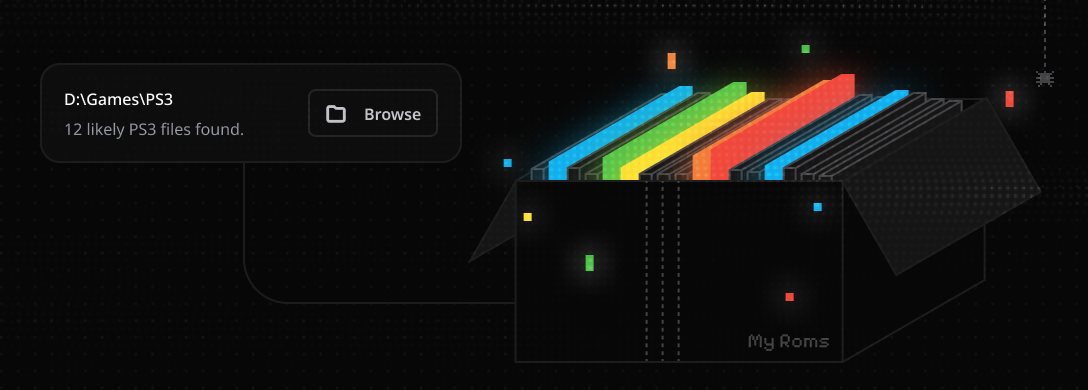
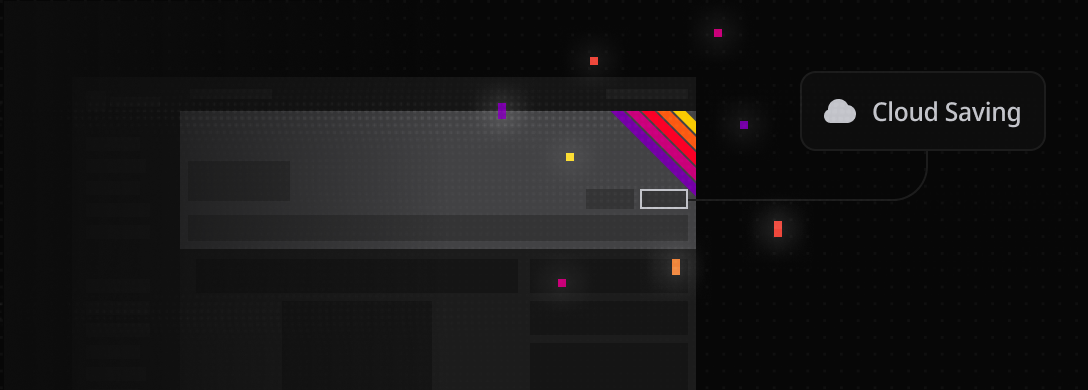
feat: update classics rainbow colors and consolidate into shared scss var
Move the classics conic gradient into a single $classics-rainbow var in globals and reference it everywhere instead of redefining it per file. Update the palette across the badge borders, hero stripes and category filter icon.

diff --git a/src/renderer/src/pages/game-details/hero.scss b/src/renderer/src/pages/game-details/hero.scss
@@ -190,31 +190,31 @@ $hero-height: 350px;
     pointer-events: none;
 
     &--orange {
-      color: #f0843b;
+      color: #fc5812;
       right: -116px;
       top: -69px;
     }
 
     &--red {
-      color: #ee473b;
+      color: #f8c802;
       right: -127.23px;
       top: -83.84px;
     }
 
     &--yellow {
-      color: #fcdc33;
+      color: #fb0026;
       right: -101.23px;
       top: -57.84px;
     }
 
     &--green {
-      color: #4cbd47;
+      color: #c80078;
       right: -88.23px;
       top: -44.84px;
     }
 
     &--blue {
-      color: #13aceb;
+      color: #7300a4;
       right: -75.23px;
       top: -31.84px;
     }
@@ -233,7 +233,7 @@ $hero-height: 350px;
       width: 500px;
       box-shadow:
         inset 0 -1px 1px 0 rgba(255, 255, 255, 0.25),
-        0 4px 16px 0 rgba(19, 172, 235, 0.24);
+        0 4px 16px 0 rgba(115, 0, 164, 0.24);
     }
 
     &--shadow {

diff --git a/src/renderer/src/pages/library/library-game-card-large.scss b/src/renderer/src/pages/library/library-game-card-large.scss
@@ -1,15 +1,5 @@
 @use "../../scss/globals.scss";
 
-$classics-rainbow: conic-gradient(
-  from 0deg,
-  #fcdc33 5deg,
-  #4cbd47 70deg,
-  #13aceb 145deg,
-  #ee473b 220deg,
-  #ef833a 290deg,
-  #fcdc33 365deg
-);
-
 .library-game-card-large {
   width: 100%;
   height: 300px;
@@ -245,7 +235,7 @@ $classics-rainbow: conic-gradient(
     border-radius: 6px;
     background:
       linear-gradient(#1c1c1c, #1c1c1c) padding-box,
-      $classics-rainbow border-box;
+      globals.$classics-rainbow border-box;
     padding: 0 8px;
     height: 28px;
     box-sizing: border-box;
@@ -269,7 +259,7 @@ $classics-rainbow: conic-gradient(
     border-radius: 6px;
     background:
       linear-gradient(#1c1c1c, #1c1c1c) padding-box,
-      $classics-rainbow border-box;
+      globals.$classics-rainbow border-box;
     width: 28px;
     height: 28px;
     box-sizing: border-box;

diff --git a/src/renderer/src/pages/library/library-game-card.scss b/src/renderer/src/pages/library/library-game-card.scss
@@ -1,15 +1,5 @@
 @use "../../scss/globals.scss";
 
-$classics-rainbow: conic-gradient(
-  from 0deg,
-  #fcdc33 5deg,
-  #4cbd47 70deg,
-  #13aceb 145deg,
-  #ee473b 220deg,
-  #ef833a 290deg,
-  #fcdc33 365deg
-);
-
 .library-game-card {
   &__wrapper {
     cursor: pointer;
@@ -137,7 +127,7 @@ $classics-rainbow: conic-gradient(
     border-radius: 6px;
     background:
       linear-gradient(#1c1c1c, #1c1c1c) padding-box,
-      $classics-rainbow border-box;
+      globals.$classics-rainbow border-box;
     padding: 0 8px;
     height: 24px;
     box-sizing: border-box;
@@ -161,7 +151,7 @@ $classics-rainbow: conic-gradient(
     border-radius: 6px;
     background:
       linear-gradient(#1c1c1c, #1c1c1c) padding-box,
-      $classics-rainbow border-box;
+      globals.$classics-rainbow border-box;
     width: 24px;
     height: 24px;
     box-sizing: border-box;

diff --git a/src/renderer/src/pages/library/category-filter.tsx b/src/renderer/src/pages/library/category-filter.tsx
@@ -33,11 +33,11 @@ export function ClassicsIcon({
           y2="22"
           gradientUnits="userSpaceOnUse"
         >
-          <stop offset="0%" stopColor="#ee473b" />
-          <stop offset="25%" stopColor="#ef833a" />
-          <stop offset="50%" stopColor="#fcdc33" />
-          <stop offset="75%" stopColor="#4cbd47" />
-          <stop offset="100%" stopColor="#13aceb" />
+          <stop offset="0%" stopColor="#f8c802" />
+          <stop offset="25%" stopColor="#fc5812" />
+          <stop offset="50%" stopColor="#fb0026" />
+          <stop offset="75%" stopColor="#c80078" />
+          <stop offset="100%" stopColor="#7300a4" />
         </linearGradient>
       </defs>
       <line x1="6" x2="10" y1="11" y2="11" />

diff --git a/src/renderer/src/pages/settings/settings.scss b/src/renderer/src/pages/settings/settings.scss
@@ -80,16 +80,7 @@
       border: 1px solid transparent;
       background:
         linear-gradient(#3f3f3f, #3f3f3f) padding-box,
-        conic-gradient(
-            from 0deg,
-            #fcdc33 5deg,
-            #4cbd47 70deg,
-            #13aceb 145deg,
-            #ee473b 220deg,
-            #ef833a 290deg,
-            #fcdc33 365deg
-          )
-          border-box;
+        globals.$classics-rainbow border-box;
     }
   }
 

diff --git a/src/renderer/src/pages/settings/emulation/setup/setup-shell.scss b/src/renderer/src/pages/settings/emulation/setup/setup-shell.scss
@@ -543,15 +543,7 @@
     display: flex;
     align-items: center;
     justify-content: center;
-    background: conic-gradient(
-      from 0deg,
-      #fcdc33 5deg,
-      #4cbd47 70deg,
-      #13aceb 145deg,
-      #ee473b 220deg,
-      #ef833a 290deg,
-      #fcdc33 365deg
-    );
+    background: globals.$classics-rainbow;
 
     &::before {
       content: "";

diff --git a/src/renderer/src/scss/globals.scss b/src/renderer/src/scss/globals.scss
@@ -13,6 +13,16 @@ $warning-color: #ffc107;
 $brand-teal: #16b195;
 $brand-blue: #3e62c0;
 
+$classics-rainbow: conic-gradient(
+  from 0deg,
+  #fb0026 5deg,
+  #c80078 70deg,
+  #7300a4 145deg,
+  #f8c802 220deg,
+  #fc5812 290deg,
+  #fb0026 365deg
+);
+
 $disabled-opacity: 0.5;
 $active-opacity: 0.7;
 
